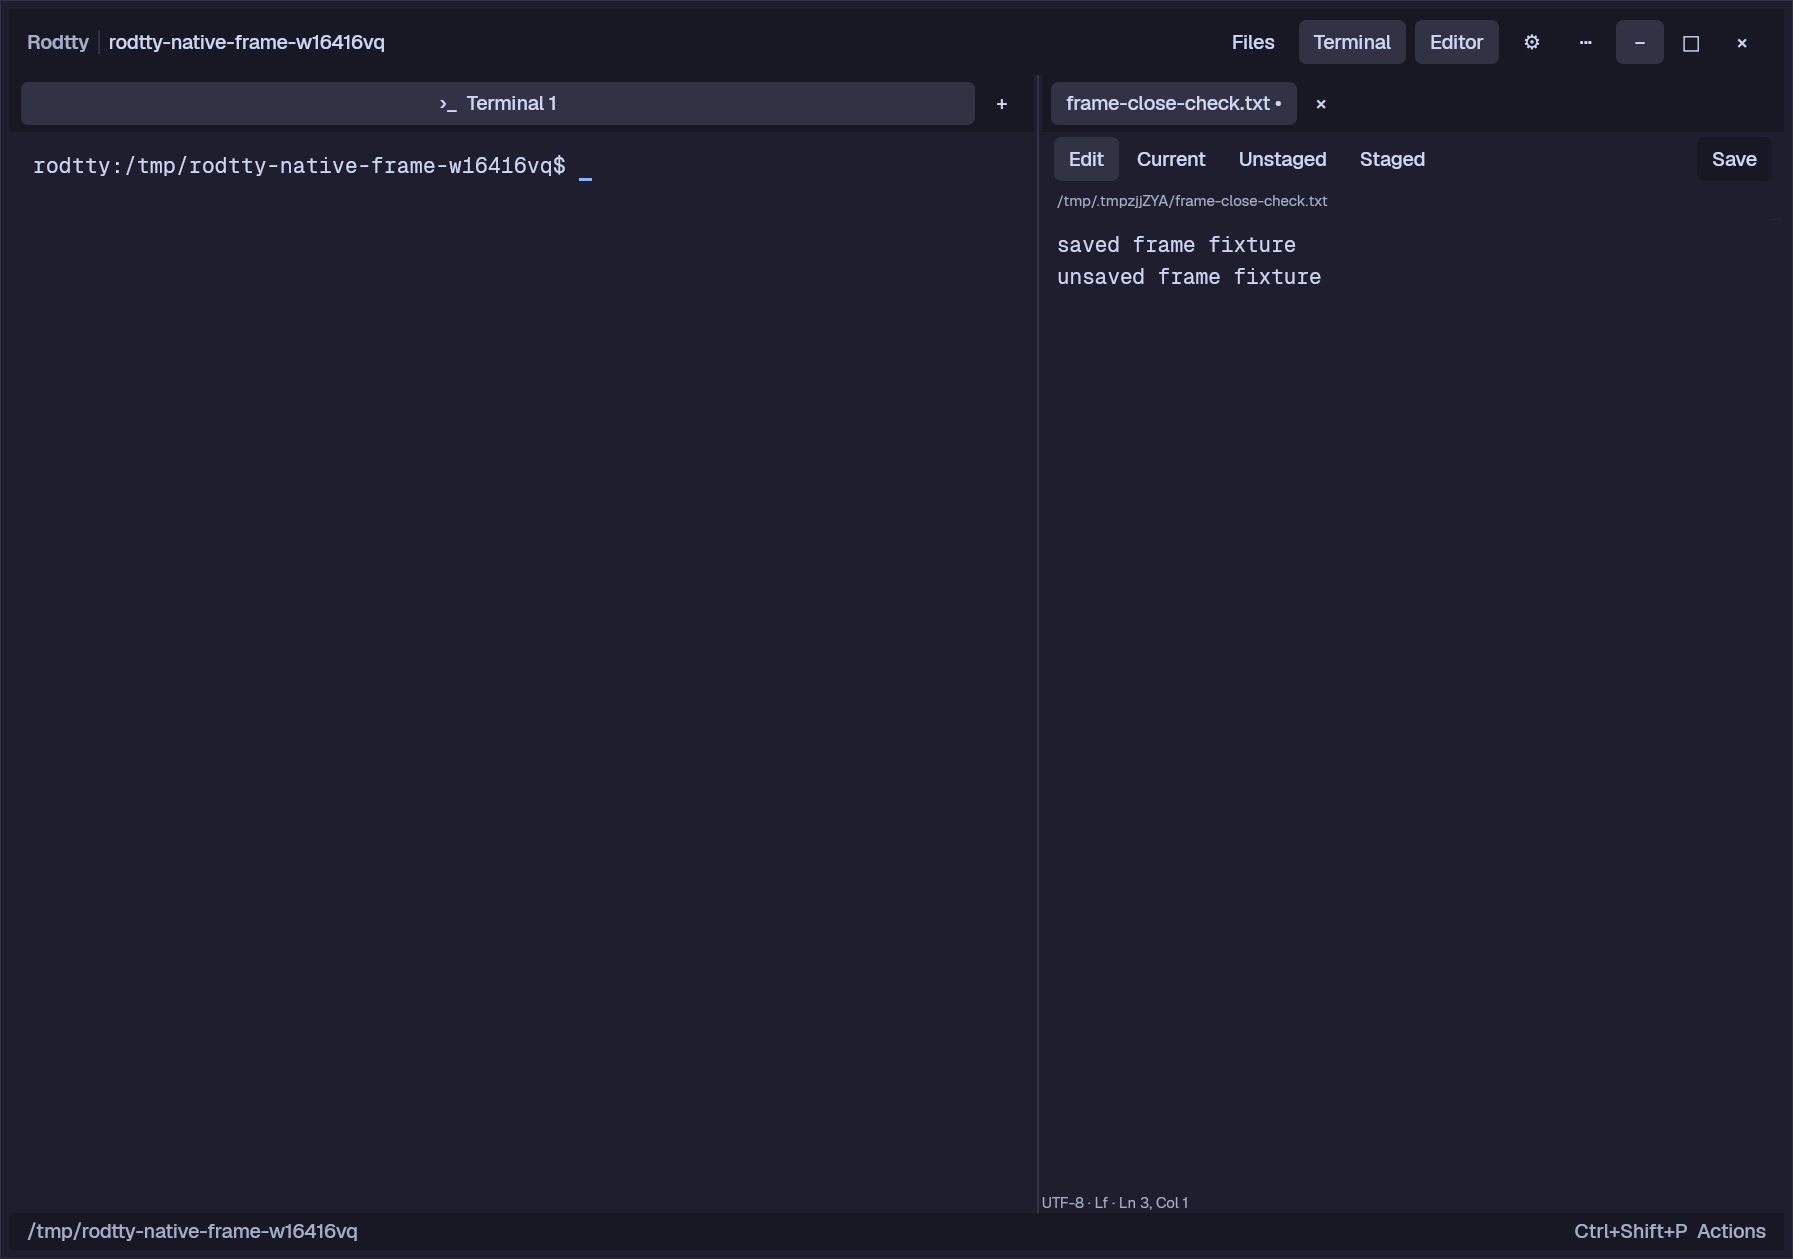
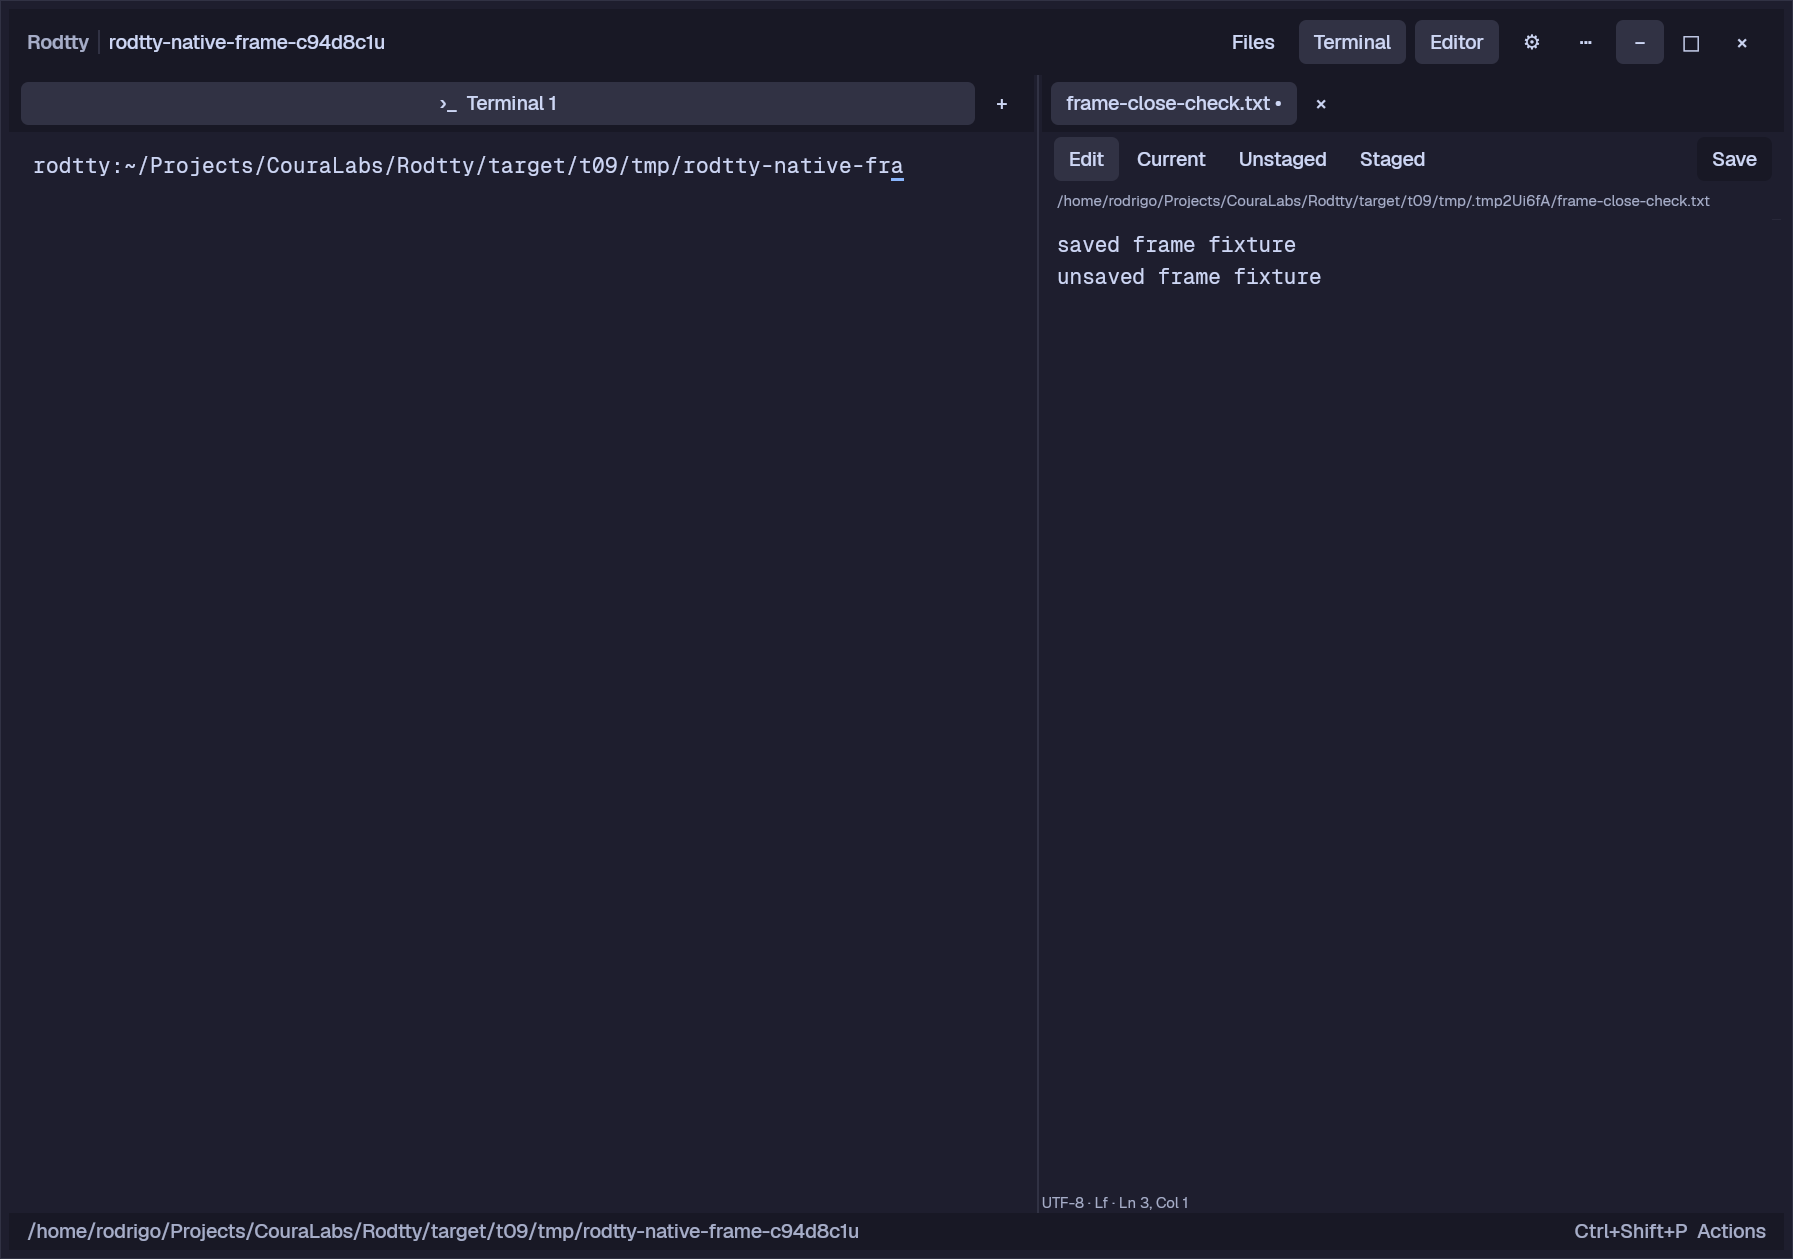
Verify merged Linux frame on Wayland and Xlib (#10)

diff --git a/scripts/native/check-linux-frame.py b/scripts/native/check-linux-frame.py
@@ -159,15 +159,16 @@ def main():
         if args.backend == 'x11':
             env.pop('WAYLAND_DISPLAY', None)
             env.pop('WAYLAND_SOCKET', None)
+        compositor = KWin(0)
+        previous = compositor.query()  # Capture focus/pointer before launching the probe.
         log = open(str(report) + '.log', 'w')
         app = subprocess.Popen([args.binary, '--frame-check', str(report), '--control-stdin', '--cwd', str(temp)], stdin=subprocess.PIPE, stdout=log, stderr=log, env=env, text=True)
-        driver, compositor, previous = None, None, None
+        driver = None
+        compositor.pid = app.pid
         evidence = {'passed': False, 'requested_backend': args.backend, 'input_driver': 'KWin Wayland fake-input' if args.fake_input_xml else 'XTest'}
         try:
             wait_for(lambda: report.with_suffix('.ready.json').exists() or app.poll() is not None, 'native frame did not become ready')
             assert app.poll() is None, f'Rodtty exited early; see {report}.log'
-            compositor = KWin(app.pid)
-            previous = compositor.query()
             initial = wait_for(lambda: compositor.query()['target'], 'isolated process has no compositor window')
             evidence['compositor_initial'] = initial
             ready = json.loads(report.with_suffix('.ready.json').read_text())
@@ -206,6 +207,13 @@ def main():
             original = target()['frame']
             control('maximize')
             wait_for(lambda: state()['maximized'], 'custom maximize button had no effect')
+            time.sleep(.5)
+            maximized_frame = target()['frame']
+            driver.move(maximized_frame[0] + 3, maximized_frame[1] + 3)
+            driver.down()
+            driver.move(maximized_frame[0] + 28, maximized_frame[1] + 28)
+            driver.up()
+            assert state()['maximized'], 'resize band must stay inactive while maximized'
             control('maximize')
             wait_for(lambda: not state()['maximized'], 'custom restore button had no effect')
             restored = wait_for(lambda: (v if same_frame((v := target()['frame']), original) else None), 'restore did not recover original compositor geometry')
@@ -264,7 +272,7 @@ def main():
             wait_for(lambda: not state()['unsaved_prompt'], 'Escape did not cancel native dirty close')
             assert state()['dirty'], 'canceling native custom close discarded the editor draft'
             evidence.update(passed=True, native_custom_close_prompt=True, native_cancel_kept_draft=True, undecorated=True, compositor_initial=initial,
-                            maximize_restore=True, restore_geometry=restored, header_double_click=True,
+                            maximize_restore=True, maximized_edges_inactive=True, restore_geometry=restored, header_double_click=True,
                             header_drag={'before': drag_before, 'after': moved}, resize=sizes,
                             minimize_compositor_ack=True, minimized_native_state=minimized, minimize_restored_via='compositor activation')
         except Exception as error:

diff --git a/src/desktop.rs b/src/desktop.rs
@@ -1587,6 +1587,7 @@ mod tests {
     }
 
     #[test]
+    #[cfg(target_os = "linux")]
     fn custom_frame_places_controls_right_and_header_controls_keep_their_clicks() {
         let mut runtime = runtime();
         let minimize = runtime
@@ -1644,6 +1645,7 @@ mod tests {
     }
 
     #[test]
+    #[cfg(target_os = "linux")]
     fn custom_close_keeps_unsaved_editor_until_owner_decides() {
         let root = tempfile::tempdir().unwrap();
         let mut state = State::with_root(root.path().to_owned());

diff --git a/docs/linux-custom-frame.md b/docs/linux-custom-frame.md
@@ -28,8 +28,12 @@ geometry, drives real pointer input, restores prior focus/pointer where exposed,
 then verifies dirty-close cancellation, saving, background terminal output and
 same-session relaunch. It does not inspect unrelated window titles.
 
+Keep temporary session roots on the binary's filesystem (set TMPDIR under
+`target/`) so utility profiles use hard links instead of copying each executable.
+
 ```sh
-python3 scripts/native/check-linux-frame.py \
+mkdir -p "$PWD/target/native-tmp"
+TMPDIR="$PWD/target/native-tmp" python3 scripts/native/check-linux-frame.py \
   --binary "$PWD/target/debug/rodtty" --backend wayland \
   --fake-input-xml /path/to/plasma-wayland-protocols/src/protocols/fake-input.xml \
   --report /tmp/rodtty-frame-wayland.json --screenshot /tmp/rodtty-frame-wayland.png
@@ -62,5 +66,7 @@ show [Wayland](assets/linux-custom-frame-wayland.png) and
 
 The runtime suite separately checks header-child exclusion, control ordering and
 full bounds at the 640×360 minimum, Settings access, and preserving an unsaved
-editor after custom close/Cancel. Native Linux evidence was collected under KWin
+editor after custom close/Cancel. The integrated serial suite passed 89 tests; strict clippy, backend-only compilation,
+formatting and desktop builds passed. Wide/minimum light/dark workspace and
+Settings renders were visually inspected. Native Linux evidence was collected under KWin
 with Wayland at 150% scale and actual Xlib; other compositors have not been run.
